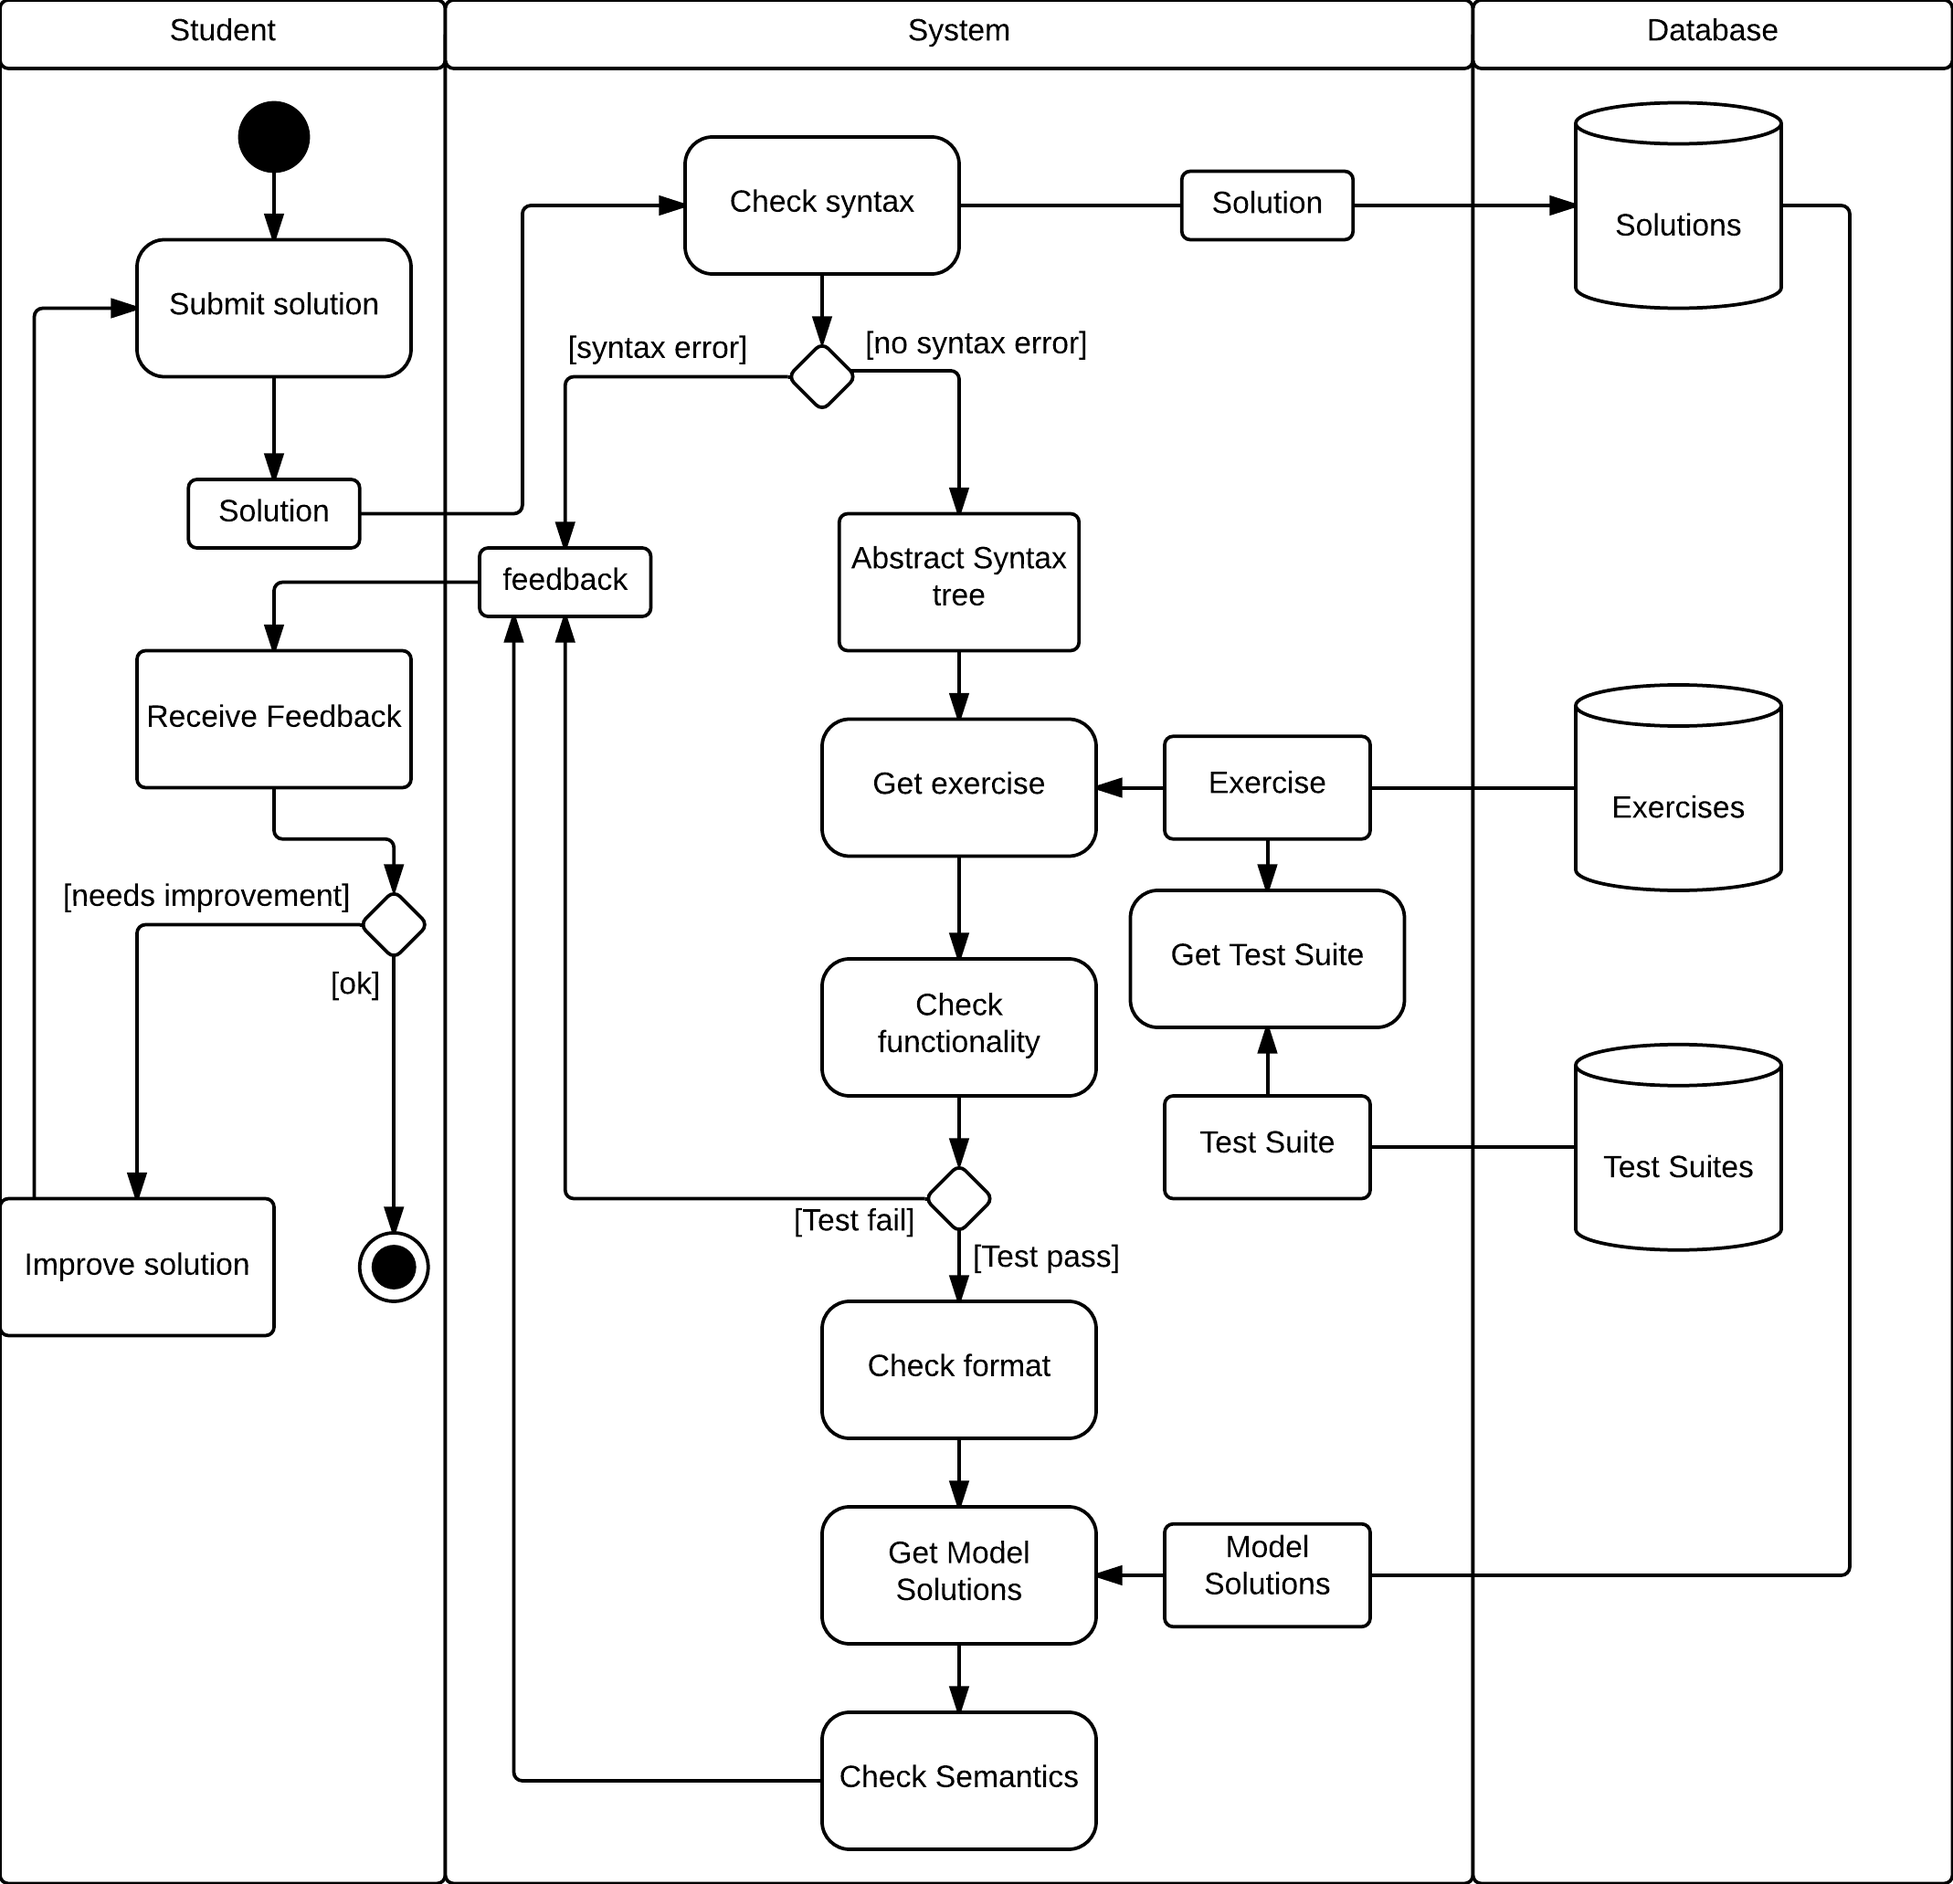
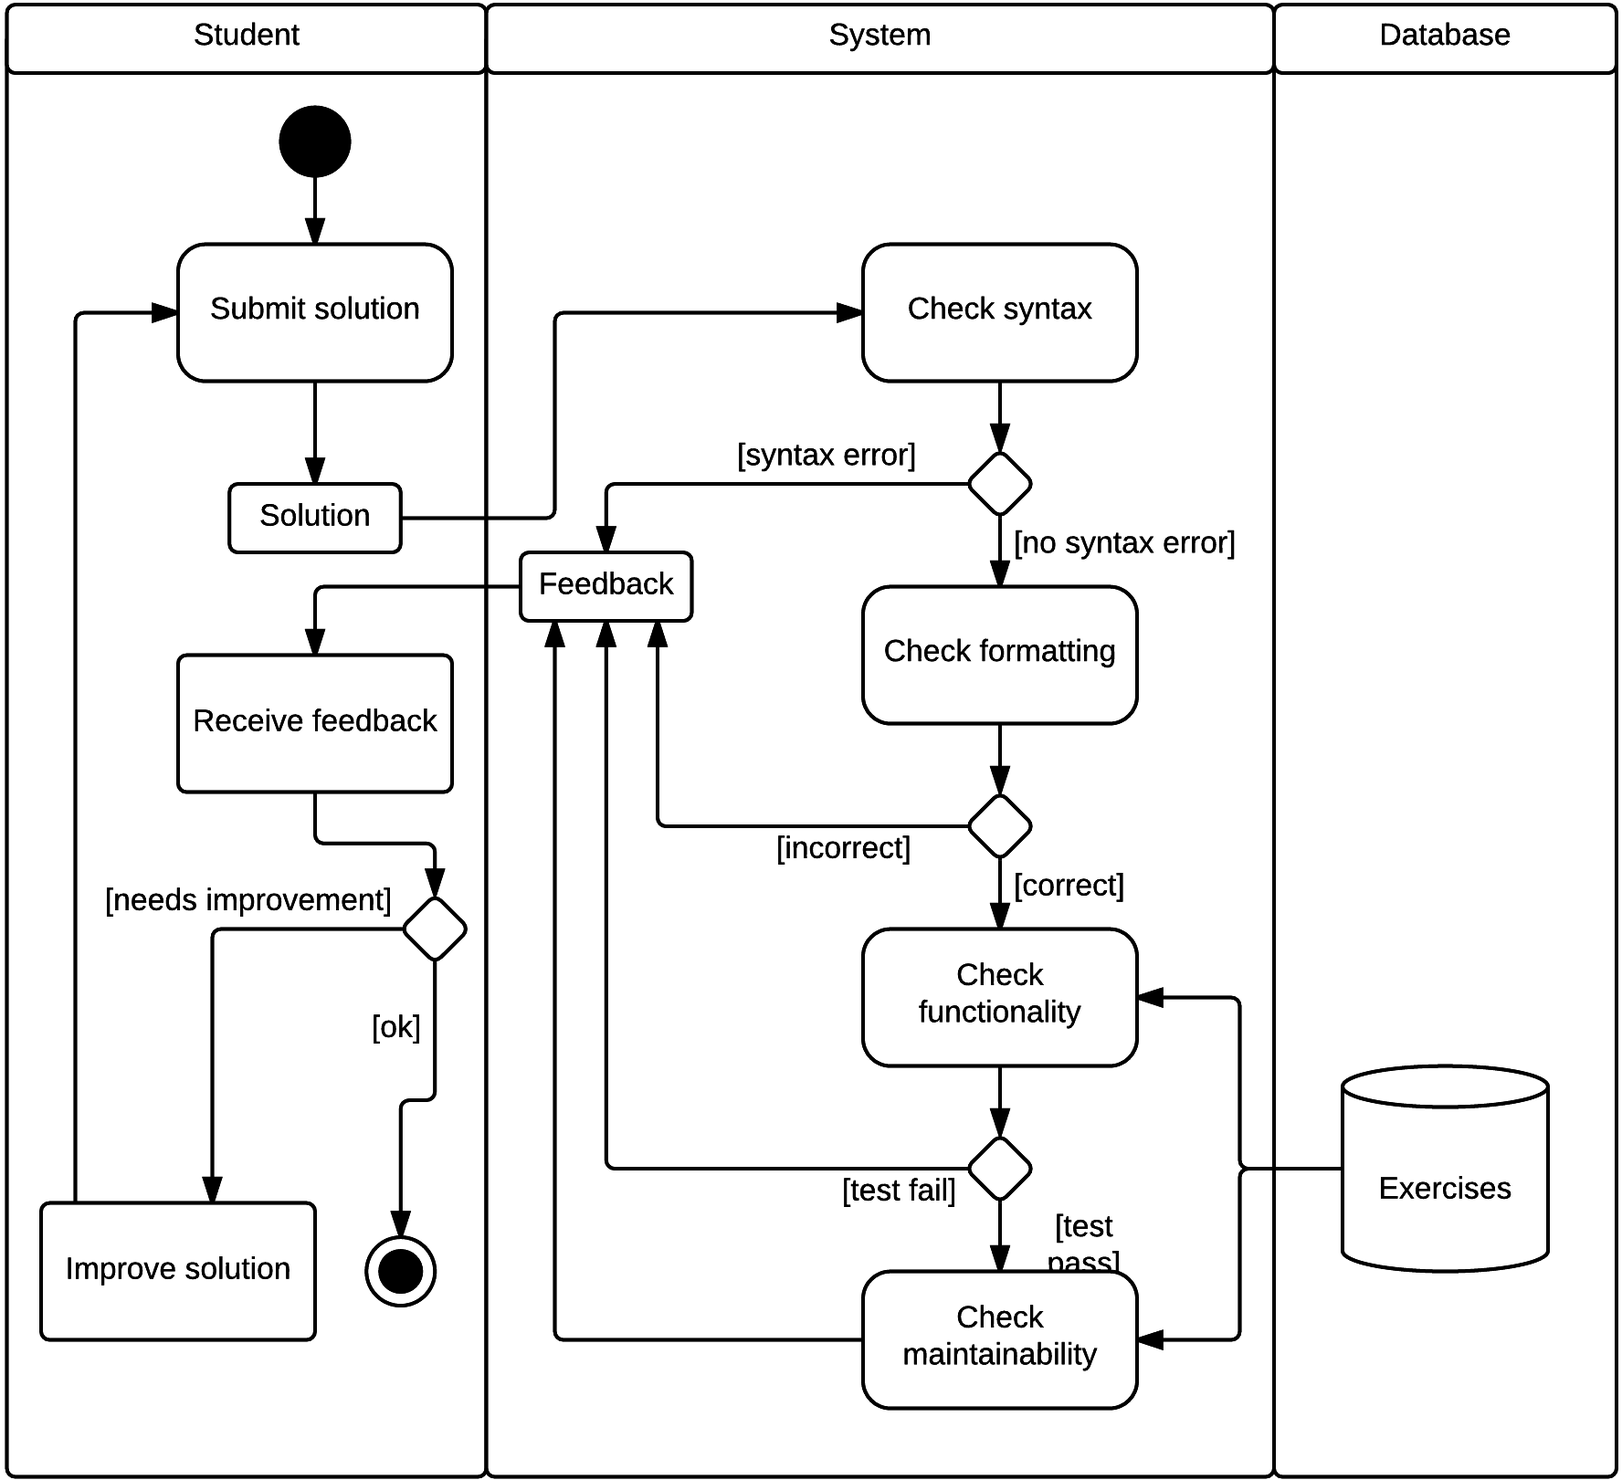
gh-58 Updated architecture chapter updated activity diagram removed domain model and chapter removed use cases (should be included as an attachment with other models)

diff --git a/product/architecture.tex b/product/architecture.tex
@@ -7,7 +7,6 @@
 % - Checks as separated modules, but with the option to contact the domain.
 % - Frontend with isolated elements and option to contact RESTful server and
 %   checks.
-% - Domain model.
 
 The \gls{examiner} consits of four parts.
 First of we have the domain we are working on.
@@ -22,10 +21,7 @@ We will go into the details of each part in the sections below,
 where we will discuss their part in the global architecture of the system,
 and how the communication flows between each part.
 
-\includegraphics[scale=0.75] {diagrams-images/architecture}
-
-\section{Domain}
-\includegraphics[scale=0.8]{diagrams-images/domain-model}
+\includegraphics[scale=0.75]{diagrams-images/architecture}
 
 \section{Control layer}
 The control layer is the server side
@@ -69,7 +65,7 @@ and its implementation
 which improves the ability to write,
 and change the checks for the \gls{examiner}
 
-\includegraphics[scale=0.8]{diagrams-images/code-submission-activity-diagram}
+\includegraphics[scale=0.75]{diagrams-images/code-submission-activity-diagram}
 
 \section{Client side}
 Because we are building a web application
@@ -86,7 +82,7 @@ the client side will contact the control layer on the server side.
 As well as for performing the various \gls{js-code} checks
 the client side will contact the checks.
 
-\section{Conclusion}
+\section{Discussion}
 We will be laying the groundwork for this project
 with just a few of the functionalities it requires.
 Other teams will pick up where we left and complement this software project.
@@ -108,5 +104,3 @@ and services can be added
 without the need to make complex changed to the existing code base.
 Only the backend \gls{source-code} needs change
 to make use of the added domain data and services.
-
-\input{use-cases}
